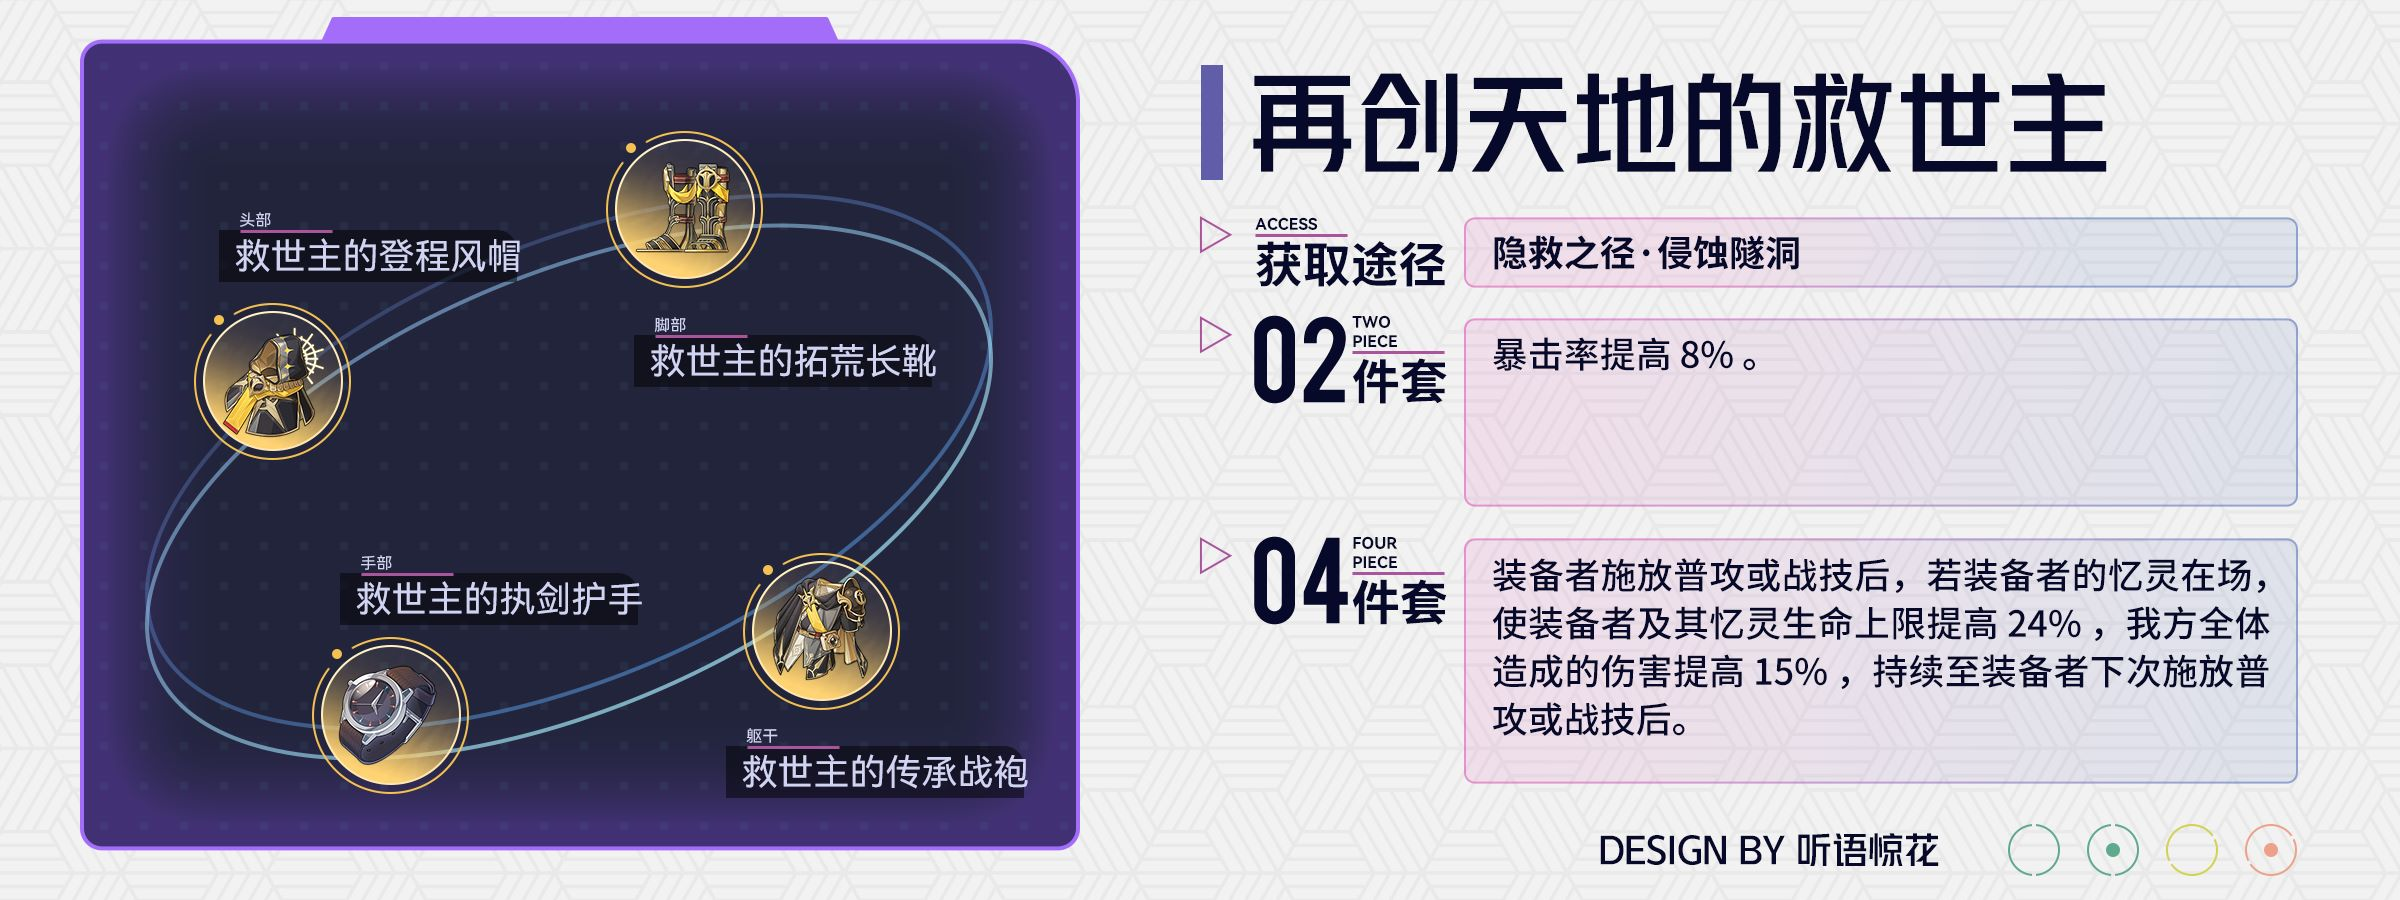
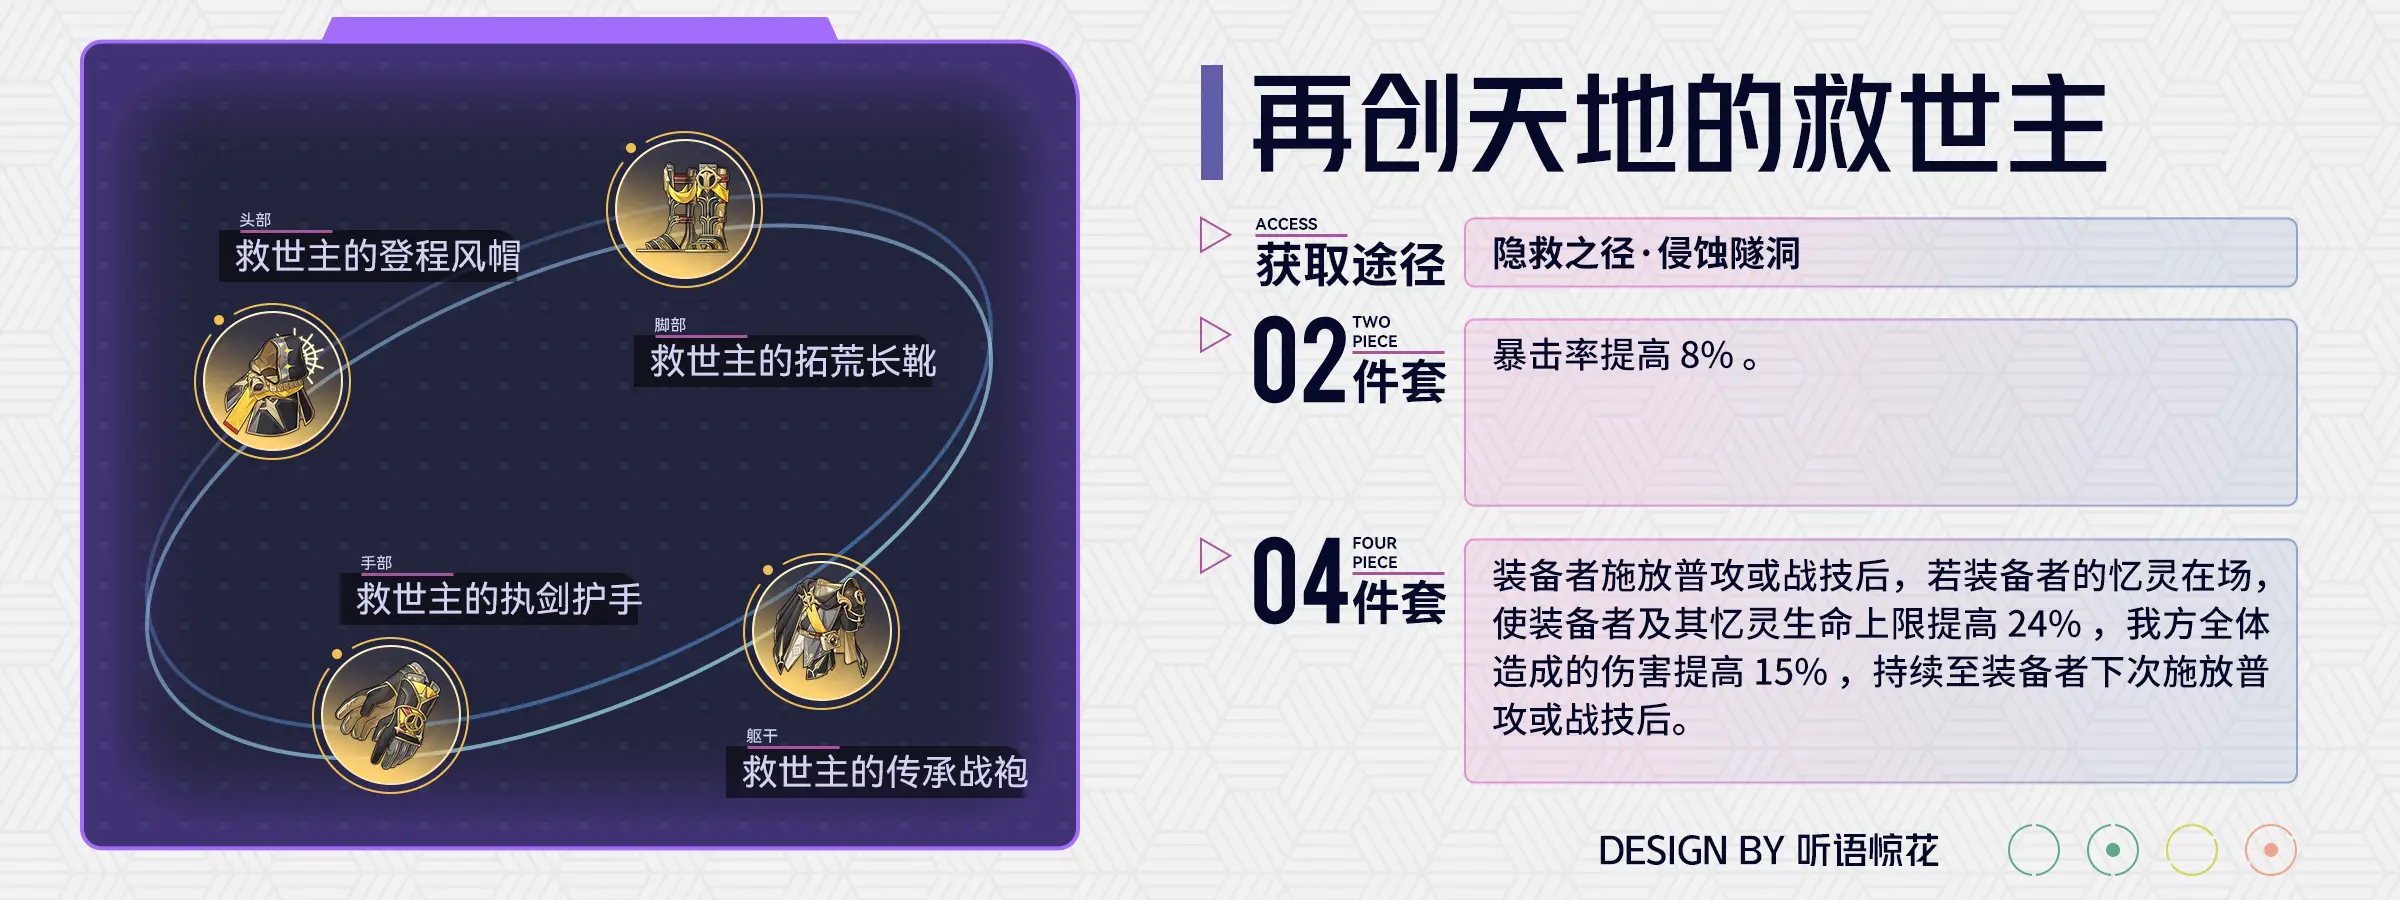
更新 4.4 相关图鉴

Changed region(s): [[0.125, 0.7156, 0.1875, 0.8711]]

diff --git a/README.md b/README.md
@@ -8,8 +8,8 @@ Star-Rail-Atlas是一个主要由[`米游社@听语惊花`](https://bbs.mihoyo.c
 ## 目录结构
 - [x] 角色图鉴（更新至2.7）
 - [x] 角色攻略（更新至2.3）
-- [x] 光锥图鉴（更新至4.3）
-- [x] 遗器图鉴（更新至3.1）
+- [x] 光锥图鉴（更新至4.4）
+- [x] 遗器图鉴（更新至4.4）
 - [ ] 奇物图鉴、祝福图鉴（可能不做了）
 
 注意：请使用根目录下的path.json来获取准确的完整目录。
